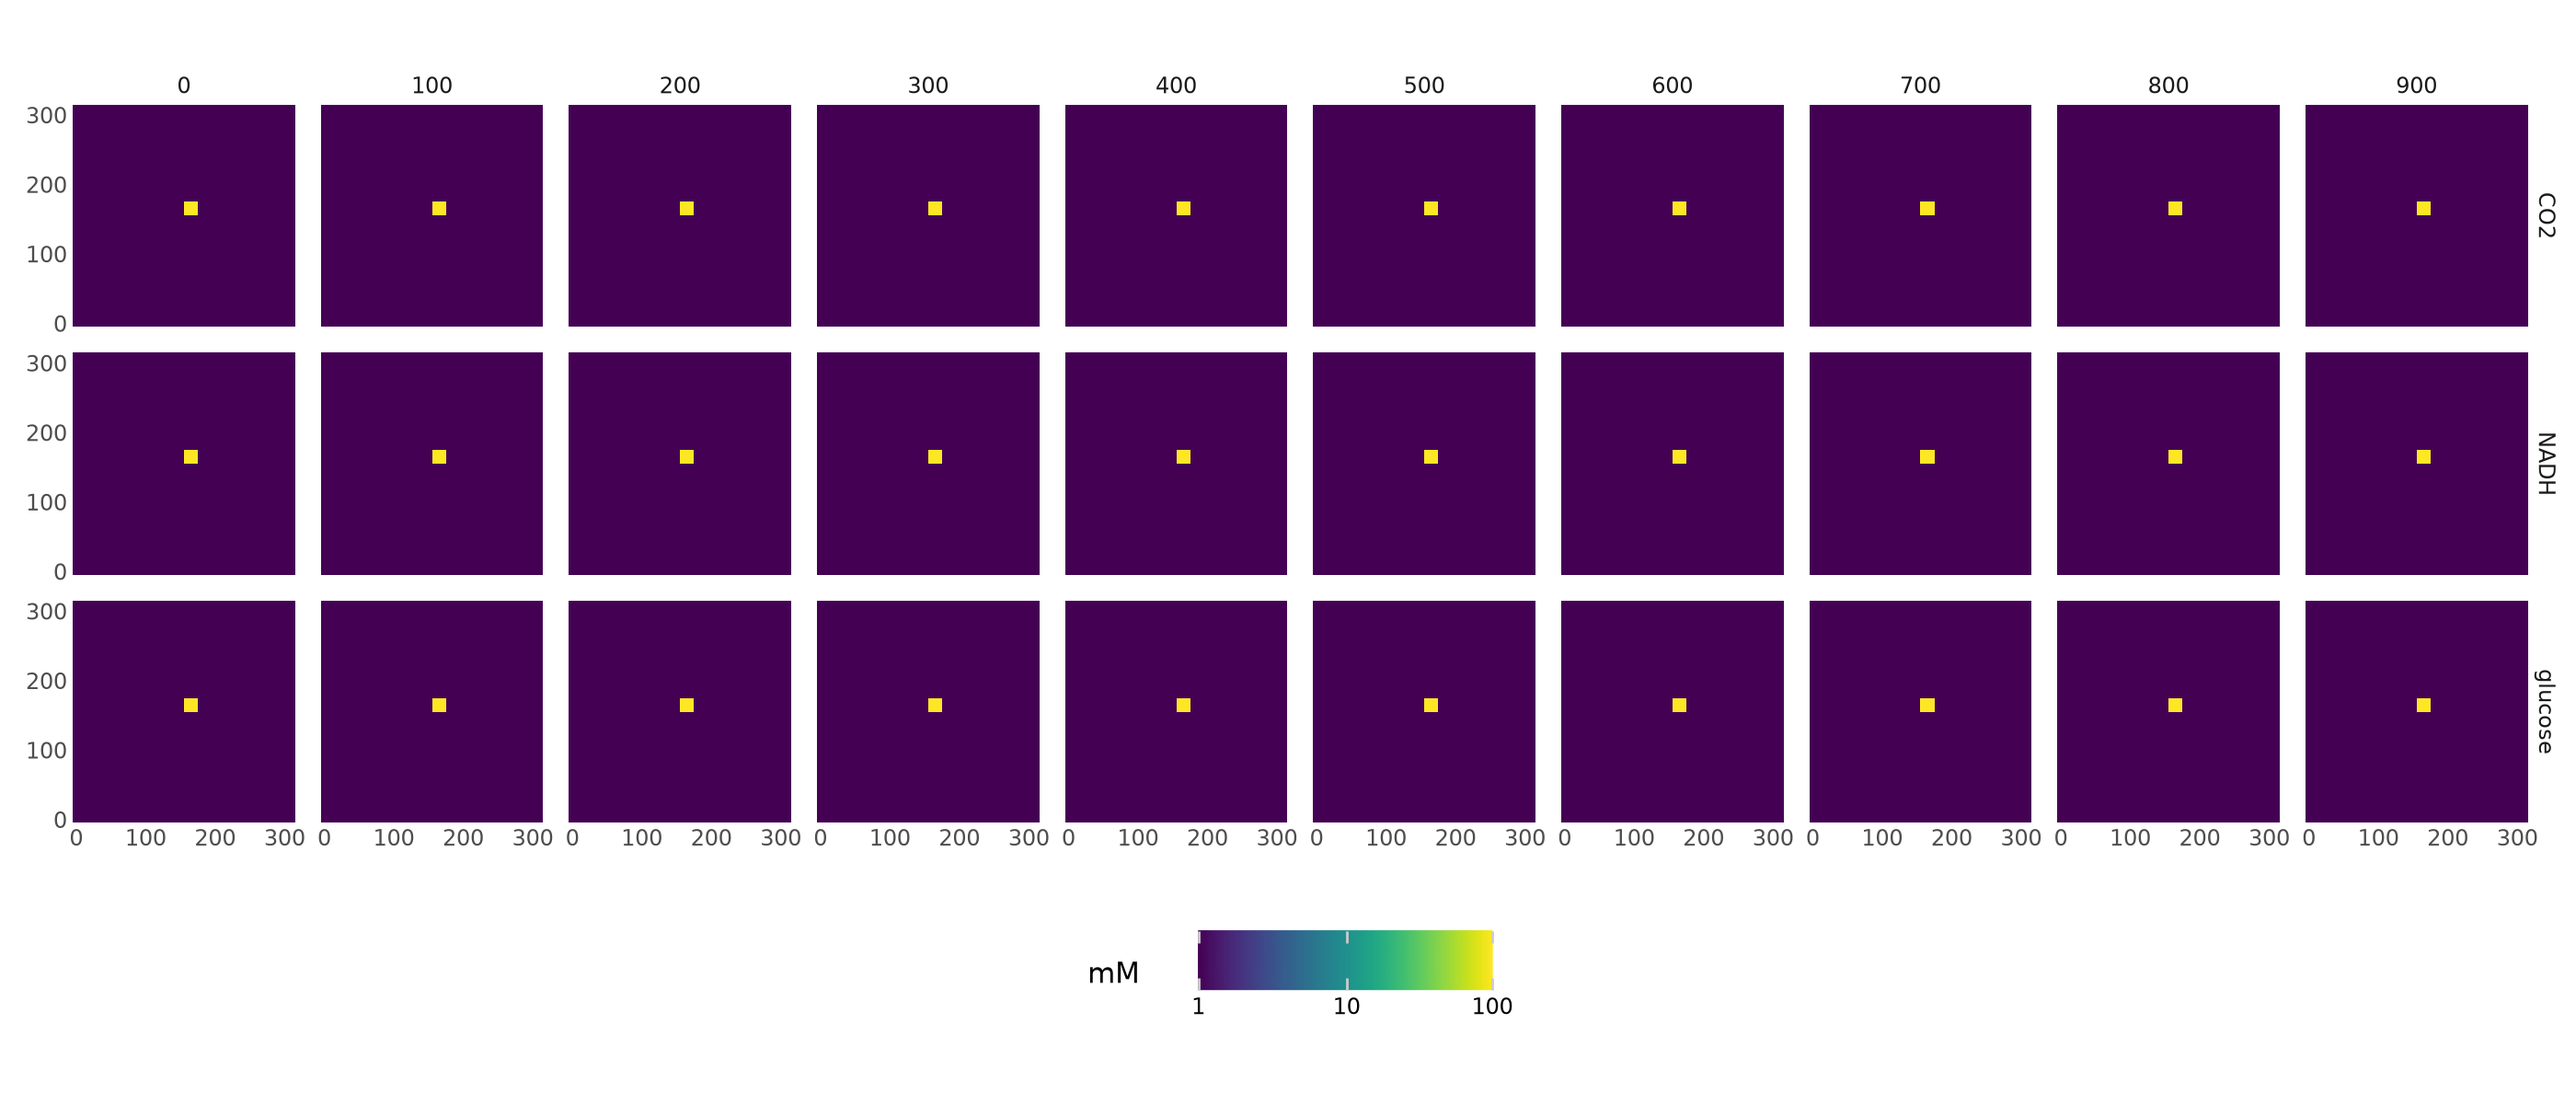
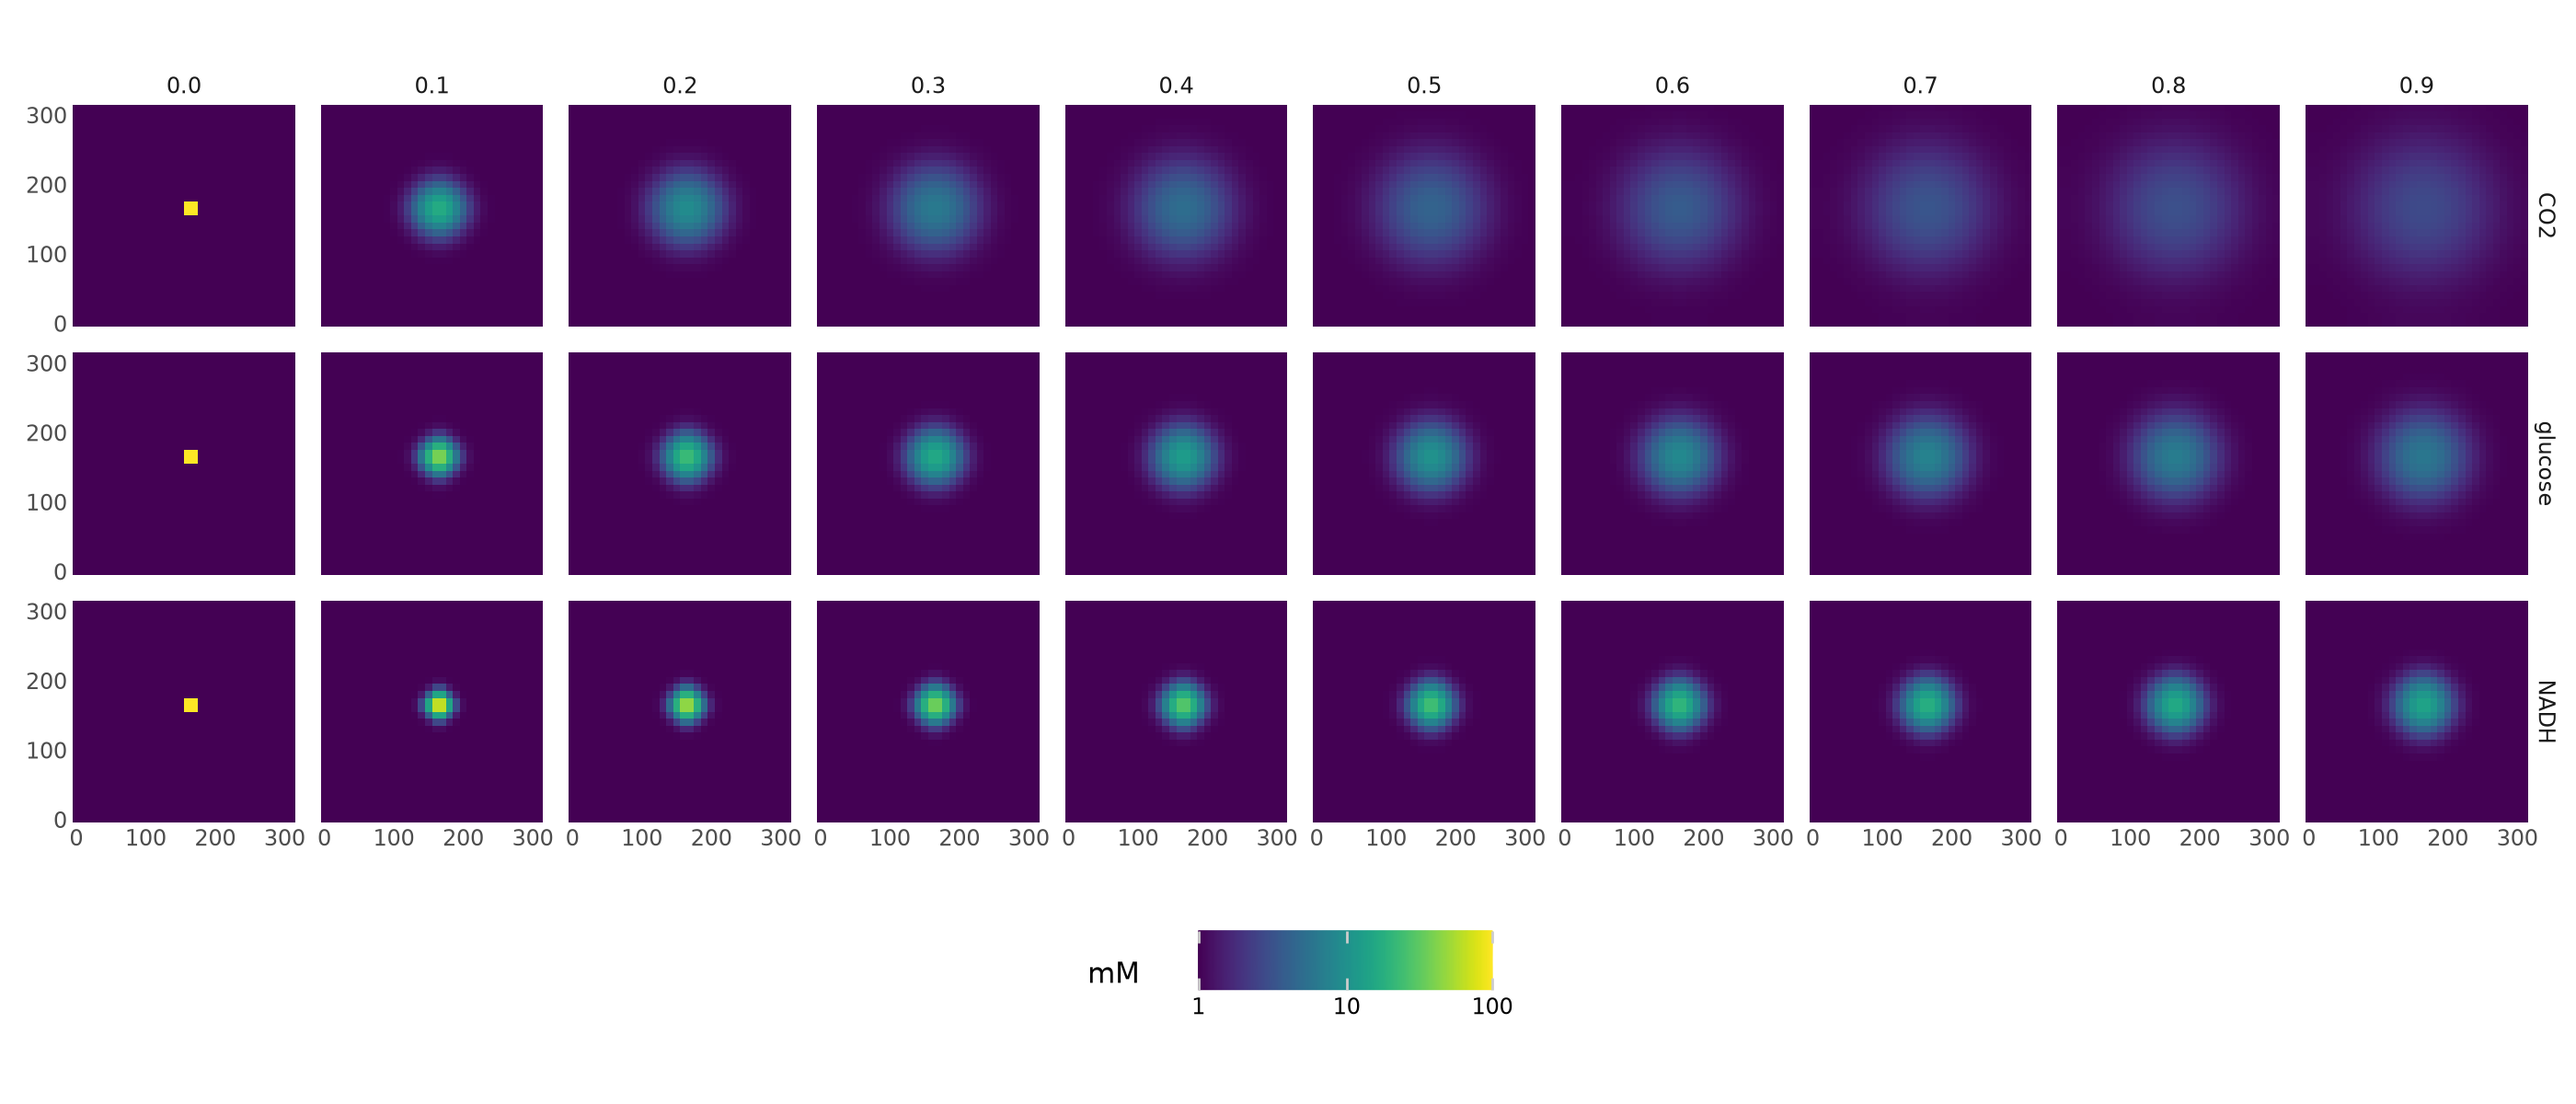
fixing plots

diff --git a/docs/plots/transcriptomes.py b/docs/plots/transcriptomes.py
@@ -28,27 +28,50 @@ def _plot_genome_transcripts(cell_idx: int, world: ms.World, w=14, h=0.2, gw=5, 
     records = [{"tag": "genome", "dir": "", "start": 0, "stop": n, "type": "genome"}]
     for pi, prot in enumerate(cell.proteome):
         tag = f"CDS{pi}"
-        start = prot.cds_start if prot.is_53 else n - prot.cds_start
-        stop = prot.cds_end if prot.is_53 else n - prot.cds_end
-        records.append(
-            {
-                "tag": tag,
-                "dir": "fwd" if prot.is_53 else "bwd",
-                "start": start,
-                "stop": stop,
-                "type": "CDS",
-            }
-        )
-        for dom in prot.domains:
-            records.append(
-                {
-                    "tag": tag,
-                    "dir": "fwd" if prot.is_53 else "bwd",
-                    "start": start + dom.start if prot.is_53 else start - dom.start,
-                    "stop": start + dom.end if prot.is_53 else start - dom.end,
-                    "type": dom_type_map[type(dom)],
-                }
-            )
+        rec = {"tag": tag}
+
+        # 5'-3'
+        if prot.is_53:
+            rec["dir"] = "fwd"
+            rec["type"] = "CDS"
+            cds_start = prot.cds_start
+            cds_end = prot.cds_end
+            records.append({**rec, "start": cds_start, "stop": min(cds_end, n)})
+
+            if cds_end > n:
+                records.append({**rec, "start": 0, "stop": cds_end % n})
+
+            for dom in prot.domains:
+                rec["type"] = dom_type_map[type(dom)]
+                dom_start = cds_start + dom.start
+                dom_end = cds_start + dom.end
+                records.append({**rec, "start": dom_start, "stop": min(dom_end, n)})
+
+                if dom_end > n:
+                    records.append({**rec, "start": 0, "stop": dom_end % n})
+
+        # 3'-5'
+        else:
+            rec["dir"] = "bwd"
+            rec["type"] = "CDS"
+            cds_start = n - prot.cds_start
+            cds_end = n - prot.cds_end
+            records.append({**rec, "start": cds_start, "stop": max(cds_end, 0)})
+
+            if cds_end < 0:
+                records.append({**rec, "start": n, "stop": n + cds_end})
+
+            for dom in prot.domains:
+                rec["type"] = dom_type_map[type(dom)]
+                dom_start = cds_start - dom.start
+                dom_end = cds_start - dom.end
+                records.append({**rec, "start": max(dom_start, 0), "stop": max(dom_end, 0)})
+
+                if dom_start < 0:
+                    records.append({**rec, "start": n + dom_start, "stop": n + dom_end})
+                elif dom_end < 0:
+                    records.append({**rec, "start": n, "stop": n + dom_end})
+
     df = pd.DataFrame.from_records(records)
 
     tags = (

diff --git a/docs/plots/molecule_physics.py b/docs/plots/molecule_physics.py
@@ -6,10 +6,9 @@ import pandas as pd
 from plotnine import *  # pylint: disable=W0614,W0401
 
 
-# TODO: molecules don't diffuse at all
 def _plot_diff(chemistry: ms.Chemistry):
     N = 32
-    dt = 100
+    dt = 0.1
     world = ms.World(time_step=dt, chemistry=chemistry, culture_kwargs={"map_size": N})
     h = N // 2
 
@@ -40,9 +39,7 @@ def _plot_diff(chemistry: ms.Chemistry):
         world.advance_time()
 
     df = pd.DataFrame.from_records(records)
-    df["molecule"] = pd.Categorical(
-        df["molecule"], categories=[d.name for d in chemistry.molecules], ordered=True
-    )
+    df["molecule"] = pd.Categorical(df["molecule"], categories=mols, ordered=True)
 
     return (
         ggplot(df)
@@ -79,7 +76,6 @@ def _plot_perm_degrad(chemistry: ms.Chemistry):
     dfp = pd.DataFrame.from_records(records)
     dfp["type"] = "permeability"
 
-    # TODO: for some reason molecules don't degrade here
     # half-life
     dt = 1000
     n_seconds = 10_000_000

diff --git a/python/magicsoup/world.py b/python/magicsoup/world.py
@@ -461,15 +461,12 @@ class World(TensorClass):
     def advance_time(self, n_steps: int = 1) -> None:
         # forces host sync
         cell_idxs = self.cells.get_cell_idxs()  # (c,)
-
+        has_cells = cell_idxs.numel() > 0
         cell_molecules = self.cells.molecules  # (c, m)
         molecule_map = self.culture.molecule_map  # (m, N, N)
         cell_coords = self.culture.get_cell_coords()  # (N², 2)
         cell_rows = cell_coords[cell_idxs, 0]
         cell_cols = cell_coords[cell_idxs, 1]
-
-        if cell_idxs.numel() == 0:
-            return
 
         for _ in range(n_steps):
             # degradation
@@ -478,6 +475,9 @@ class World(TensorClass):
 
             # diffusion
             molecule_map[:] = self.diffusion.diffuse(molecule_map)
+
+            if not has_cells:
+                continue
 
             # collect internal and external molecules for x
             x = torch.cat(

diff --git a/docs/plots/free_energy.py b/docs/plots/free_energy.py
@@ -7,12 +7,11 @@ from magicsoup.examples.wood_ljungdahl import MOLECULES, REACTIONS
 from plotnine import *  # pylint: disable=W0614,W0401
 
 
-# TODO: for some reason energy only decreases with degradation, reactions don't work?
-def _run_simulation(reactions: list[ms.Reaction], label: str, n_seconds=100) -> pd.DataFrame:
+def _run_simulation(reactions: list[ms.Reaction], label: str, n_seconds=1000) -> pd.DataFrame:
     chemistry = ms.Chemistry(molecules=MOLECULES, reactions=reactions)
     E = torch.tensor([d.energy for d in chemistry.molecules], dtype=torch.double)
     world = ms.World(chemistry=chemistry, culture_kwargs={"map_size": 10})
-    world.degradation.decay[:] = 1.0  # TODO: temporarily turned off degradation
+    world.degradation.decay[:] = 1.0  # degradation would overshadow reactions
     world.culture.molecule_map[:] = 10.0
     N = world.culture.map_size
 
